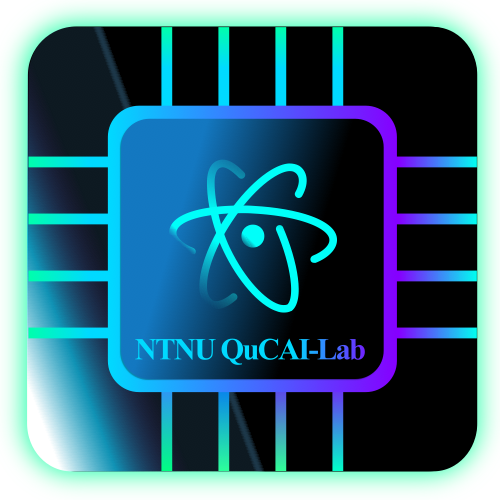
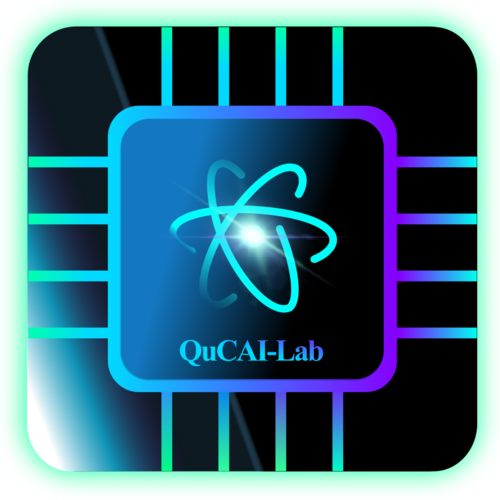
update

diff --git a/README.md b/README.md
@@ -4,19 +4,17 @@
 
 <p align="center">
   <h1 align="center"> QuCAI-Lab </h1>
-  <h2 align="center">Quantum-Classical Artificial Intelligence and NMR Laboratory at <a href ="https://en.ntnu.edu.tw">NTNU</a>, Taipei (Taiwan)</h2>
+  <h2 align="center">Quantum-Classical Artificial Intelligence Laboratory </h2>
 </p>
 <br />
 
+<!-- ############################################################################################################################################################## -->
+
 # Table of Contents
-- **[Research](#Research)**
-- **[Publications](#Publications)**
-- **[Resources](#Resources)**
-- **[Challenges](#Challenges)**
-- **[Community](#Community)**
+- **[Research areas of interest](#Research)**
+- **[Community resources](#Community)**
   - **[Quantum Mechanics](#Mechanics)**
-  - **[Quantum Information](#Information)**
-  - **[Quantum Computing](#Computing)**
+  - **[Quantum Information and Quantum Computing](#Information)**
   - **[cQED](#cQED)**
   - **[SQC](#SQC)**
   - **[CML](#CML)**
@@ -24,70 +22,30 @@
   - **[Frameworks](#Frameworks)**
   - **[QC Tutorials](#QCt)** 
   - **[QML Tutorials](#QMLt)** 
+  
+<!-- ############################################################################################################################################################## -->
 
 # &nbsp; <a href="#"><img valign="middle" height="45px" src="https://img.icons8.com/physics" width="45" hspace="0px" vspace="0px"></a> Research areas of interest<a name="Research" />  
 
-- In-house development of Low-Field Nuclear Magnetic Resonance (NMR) systems.
-- Simulation of high-temperature superconducting sensors and devices for low-field NMR (filters and SQUIDS).
-- Classical machine/deep learning algorithms for classification and noise reduction of NMR-based datasets.
-- Simulation of circuit-based quantum processors for superconducting quantum computing.
-- Quantum-classical machine/deep learning algorithms for design and optimization of superconducting circuit-based qubits in cQED.
+- Development of quantum-classical machine/deep learning algorithms for optimization of VQE experiments and Quantum Kernels.
+- Development of reinforcement learning algorithms for optimization of circuit-based superconducting qubits in circuit QED. 
 
-# &nbsp; <a href="#"><img valign="middle" height="45px" src="https://img.icons8.com/journal" width="45" hspace="0px" vspace="0px"></a> [Publications](https://github.com/QuCAI-Lab/Publications)<a name="Publications" /> 
-
-- 2021 - Lucas Camponogara Viera and Shu-Hsien Liao, “A thorough introduction to non-relativistic matrix mechanics in multi-qudit
-systems with a study on quantum entanglement and quantum quantifiers, [arXiv:2109.06444 [quant-ph]](https://github.com/QuCAI-Lab/Publications/tree/main/arXiv_2109.06444%5Bquant-ph%5D).
-
-- 2021 - H. -S. Huang et al., “A study of hysteresis reduction of small ac magnetic field modulated tunneling magnetoresistive sensor,”
-in [IEEE Transactions on Magnetics](https://ieeexplore.ieee.org/document/9444482), doi: 10.1109/TMAG.2021.3085095
-
-# &nbsp; <a href="#"><img valign="middle" height="45px" src="https://img.icons8.com/code" width="45" hspace="0px" vspace="0px"></a> [Open educational resources](https://github.com/QuCAI-Lab/educational-resources)<a name="Resources" />  
-
-- [Conda Essentials](https://github.com/QuCAI-Lab/educational-resources/tree/main/Conda_Essentials).
-- [GitHub Essentials](https://github.com/QuCAI-Lab/educational-resources/tree/main/GitHub_Essentials).
-- [Linux Essentials](https://github.com/QuCAI-Lab/educational-resources/tree/main/Linux_Essentials).
-
-# &nbsp; <a href="#"><img valign="middle" height="45px" src="https://img.icons8.com/puzzle" width="45" hspace="0px" vspace="0px"></a> Challenges<a name="Challenges" />
-
-Always looking forward to taking on new challenges at the cutting edge of quantum computing by participating in Hackathon/Competition online events.
-
-- [QHack2022, Feb. 14-25th 2022](https://qhack.ai):
-  - [Coding Challenge Solutions](https://github.com/QuCAI-Lab/QHack2022);
-  - [Open Hackaton Project](https://github.com/QuCAI-Lab/qhack2022-hackeinberg-project).
-- [IBM Quantum Awards: Open Science Prize. November 29th - April 16th](https://ibmquantumawards.bemyapp.com/#/event).
+<!-- ############################################################################################################################################################## -->
 
 # &nbsp; <a href="#"><img valign="middle" height="45px" src="https://img.icons8.com/university" width="45" hspace="0px" vspace="0px"></a> Community resources<a name="Community" />
-
->In order to develop novel machine learning algorithms tailored to circuit-based superconducting qubits, the student is expected to have a basic understanding of:
->1. Quantum mechanics.
->2. Quantum information.
->3. The hardware (processor) of a circuit-based superconducting quantum computer.
->4. Simulation of transmon-based circuits with [qiskit-metal](https://qiskit.org/metal/).
->5. Quantum-classical machine learning.
->
->Outlined below are curated resources to help the student navigate the aforementioned learning curve. Others are interesting materials worth sharing.
-><a href="#"><img valign="middle" src="https://th.bing.com/th/id/R4890d2a2d90ae72622d0ea79035f0c2d?rik=7s0reka%2fKL%2bONA&riu=http%3a%2f%2forig08.deviantart.net%2f7f58%2ff%2f2013%2f228%2f1%2f9%2fcrash_emoticon_by_mikeym92-d6ifgmf.png&ehk=hS%2fWHg5rMLLPlaDpz9VYxE7izpm0egwCfg1FGjG3SJs%3d&risl=&pid=ImgRaw" width="70"></a>  
->```python
->if __name__ == "__main__":
->   print('Happy studying! 加油!')
->```
 
 ## **Quantum Mechanics**<a name="Mechanics" /> 
   - Books: 
     - [Introduction to Quantum Mechanics: Griffiths, David J.](https://www.fisica.net/mecanica-quantica/Griffiths%20-%20Introduction%20to%20quantum%20mechanics.pdf)
     - [The Feynman Lectures on Physics, Volume III: quantum mechanics](https://www.feynmanlectures.caltech.edu/III_toc.html).
 
-## **Quantum Information** <a name="Information" /> 
-  - Playlist:
-    - [What did Einstein mean by “Spooky Action at a Distance"?](https://www.youtube.com/watch?v=Dl6DyYqPKME&list=PLneI7EukdQSUSgGVFHS0LKCGyhLVQtXhT&index=67&ab_channel=SabineHossenfelder)
+## **Quantum Information and Quantum Computing** <a name="Information" /> 
   - Books:
     - Nielsen MA, Chuang IL. 2010. Quantum Computation and Quantum Information. New York: [Cambridge Univ. Press.](https://doi.org/10.1017/CBO9780511976667) 10th Anniv. Ed.
   - Courses:
     - [USC Quantum Computation and Open Quantum Systems](http://qserver.usc.edu/meetings/quantum-courses/).
-
-## **Quantum Computing (QC)**<a name="Computing" /> 
-  - Playlist:   
-    - [Quantum Computing Concepts - A web series with Professor Andrea Morello](https://www.youtube.com/watch?v=sjINVV2xOow&list=PLHSIfioizVW2uC27IFkHlSc-NgvZjBliZ&index=1&ab_channel=UNSW). 
+    - [John Preskill. "Course Information for Physics 219/Computer Science 219 Quantum Computation." California Institute of Technology](http://theory.caltech.edu/~preskill/ph229/).
+  - Playlist:
     - Qiskit videos:
       - [Circuit Sessions with Jay Gambetta](https://www.youtube.com/watch?v=Omv-bPvQ3E8&ab_channel=Qiskit).
     - Institute for Quantum Computing:
@@ -123,14 +81,14 @@ Always looking forward to taking on new challenges at the cutting edge of quantu
   - Papers:
     - A. Blais et al., "Cavity quantum electrodynamics for superconducting electrical circuits: An architecture for quantum computing," [Phys. Rev. A.](https://journals.aps.org/pra/abstract/10.1103/PhysRevA.69.062320) APS. 69: 062320 (2004).
     - J. Koch, "Charge-insensitive qubit design derived from the Cooper pair box," [Phys. Rev. A](https://journals.aps.org/pra/abstract/10.1103/PhysRevA.76.042319) 76, 042319 (2007).
+    - Gambetta, J.M., Chow, J.M. & Steffen, M. Building logical qubits in a superconducting quantum computing system. [npj Quantum Inf 3, 2 (2017)](https://www.nature.com/articles/s41534-016-0004-0)
+
   - Surveys:
     - [2004: "Superconducting Qubits: A Short Review."](https://arxiv.org/pdf/cond-mat/0411174.pdf)
     - [2013: "Hybrid quantum circuits: Superconducting circuits interacting with other quantum systems."](https://journals.aps.org/rmp/abstract/10.1103/RevModPhys.85.623)
     - [2017: "Quantum information processing with superconducting circuits: a review."](https://iopscience.iop.org/article/10.1088/1361-6633/aa7e1a)
-    - [2017: "Building logical qubits in a superconducting quantum computing system."](https://www.nature.com/articles/s41534-016-0004-0)
     - [2019: "A quantum engineer's guide to superconducting qubits."](https://aip.scitation.org/doi/10.1063/1.5089550)
     - [March 2020: "Superconducting qubits: Current state of play."](https://doi.org/10.1146/annurev-conmatphys-031119-050605)
-    - [Nov. 2020: "Superconducting Quantum Computing: A Review."](https://arxiv.org/pdf/2006.10433.pdf)
     - [July 2020: Superconducting Parametric Amplifiers: The State of the Art in Josephson Parametric Amplifiers.](https://ieeexplore.ieee.org/document/9134828)
     - [2021: "Gate-based superconducting quantum computing."](https://aip.scitation.org/doi/10.1063/5.0029735)
 
@@ -151,14 +109,6 @@ Always looking forward to taking on new challenges at the cutting edge of quantu
     - Schuld, M., & Petruccione, F.: Supervised Learning with Quantum Computers (vol. 17). [Springer, Berlin (2018)](https://link.springer.com/book/10.1007/978-3-319-96424-9).
   - Courses:
     - Quantum Machine Learning course from the [University of Toronto on edX](https://learning.edx.org/course/course-v1:University_of_TorontoX+UTQML101x+2T2019/home). Also available via the [Quantum ML](https://www.youtube.com/channel/UCVROlDxzfRrlRexJvvCuQeg) youtube channel as a MOOC.
-  - Papers:
-    - K. Mitarai, M. Negoro, M. Kitagawa, and K. Fujii. Quantum circuit learning. [Phys. Rev. A 98](https://journals.aps.org/pra/pdf/10.1103/PhysRevA.98.032309), 032309 (2018), [arXiv: 1803.00745](https://arxiv.org/abs/1803.00745). 
-    - Schuld, M. (2021). Supervised quantum machine learning models are kernel methods. [arXiv:2101.11020 [quant-ph]](https://arxiv.org/abs/2101.11020#:~:text=Supervised%20quantum%20machine%20learning%20models%20are%20kernel%20methods,-Maria%20Schuld&text=Overall%2C%20the%20kernel%20perspective%20of,from%20classical%20machine%20learning%20models).
-    - Havlíček, V., Córcoles, A.D., Temme, K. et al. Supervised learning with quantum-enhanced feature spaces. [Nature 567](https://www.nature.com/articles/s41586-019-0980-2#citeas), 209–212 (2019).
-    - Abbas, A., Sutter, D., Zoufal, C. et al. The power of quantum neural networks. [Nat Comput Sci 1](https://www.nature.com/articles/s43588-021-00084-1), 403–409 (2021).
-    - Liu, Y., Arunachalam, S. & Temme, K. A rigorous and robust quantum speed-up in supervised machine learning. [Nat. Phys](https://www.nature.com/articles/s41567-021-01287-z). 17, 1013–1017 (2021).
-    - V. Dunjko and H. J. Briegel. Machine learning & artificial intelligence in the quantum domain. [arXiv: 1709.02779 [quant-ph]](https://arxiv.org/pdf/1709.02779.pdf).
-    - Jarrod R McClean et al 2016. The theory of variational hybrid quantum-classical algorithms. [New J. Phys. 18 023023](https://iopscience.iop.org/article/10.1088/1367-2630/18/2/023023).
 
 ## **Open-Source frameworks/toolkits (libraries) for quantum computing**<a name="Frameworks" /> 
   - [pyEPR](https://github.com/zlatko-minev/pyEPR): aid circuit design and circuit quantization. Interfaces with EM solvers (e.g., Ansys HFSS) for high-efficiency analysis of superconducting circuit-based quantum chips. Suitable for weakly anharmonic systems (transmon type). Chiefly based on the [energy participation ratio](https://arxiv.org/abs/2010.00620) approach.
@@ -173,8 +123,8 @@ Always looking forward to taking on new challenges at the cutting edge of quantu
   - [Pennylane](https://pennylane.ai/): an open-source cross-platform Python library for QC that is both framework and hardware-agnostic. Convert quantum circuits from other frameworks (e.g., Qiskit) into a pennylane template to automatically add differentiation and transform circuits into python functions for use in a tensorflow/pytorch model and for deployment to other QPUs (e.g., Rigetti QPUs).
 
 ## **QC Tutorials**<a name="QCt" /> 
-  - [Simulating QC with Qiskit](https://qiskit.org/textbook/ch-appendix/qiskit.html).
-  - [Simulating QC with PennyLane](https://pennylane.ai/qml/demos_getting-started.html).
+  - [Quantum computing with Qiskit](https://qiskit.org/textbook/ch-appendix/qiskit.html).
+  - [Quantum computing with PennyLane](https://pennylane.ai/qml/demos_getting-started.html).
 
 ## **QML Tutorials**<a name="QMLt" />
   - [Introduction to Quantum Machine Learning with Q# using either a python or c# host program](https://docs.microsoft.com/en-us/azure/quantum/user-guide/libraries/machine-learning/intro).
